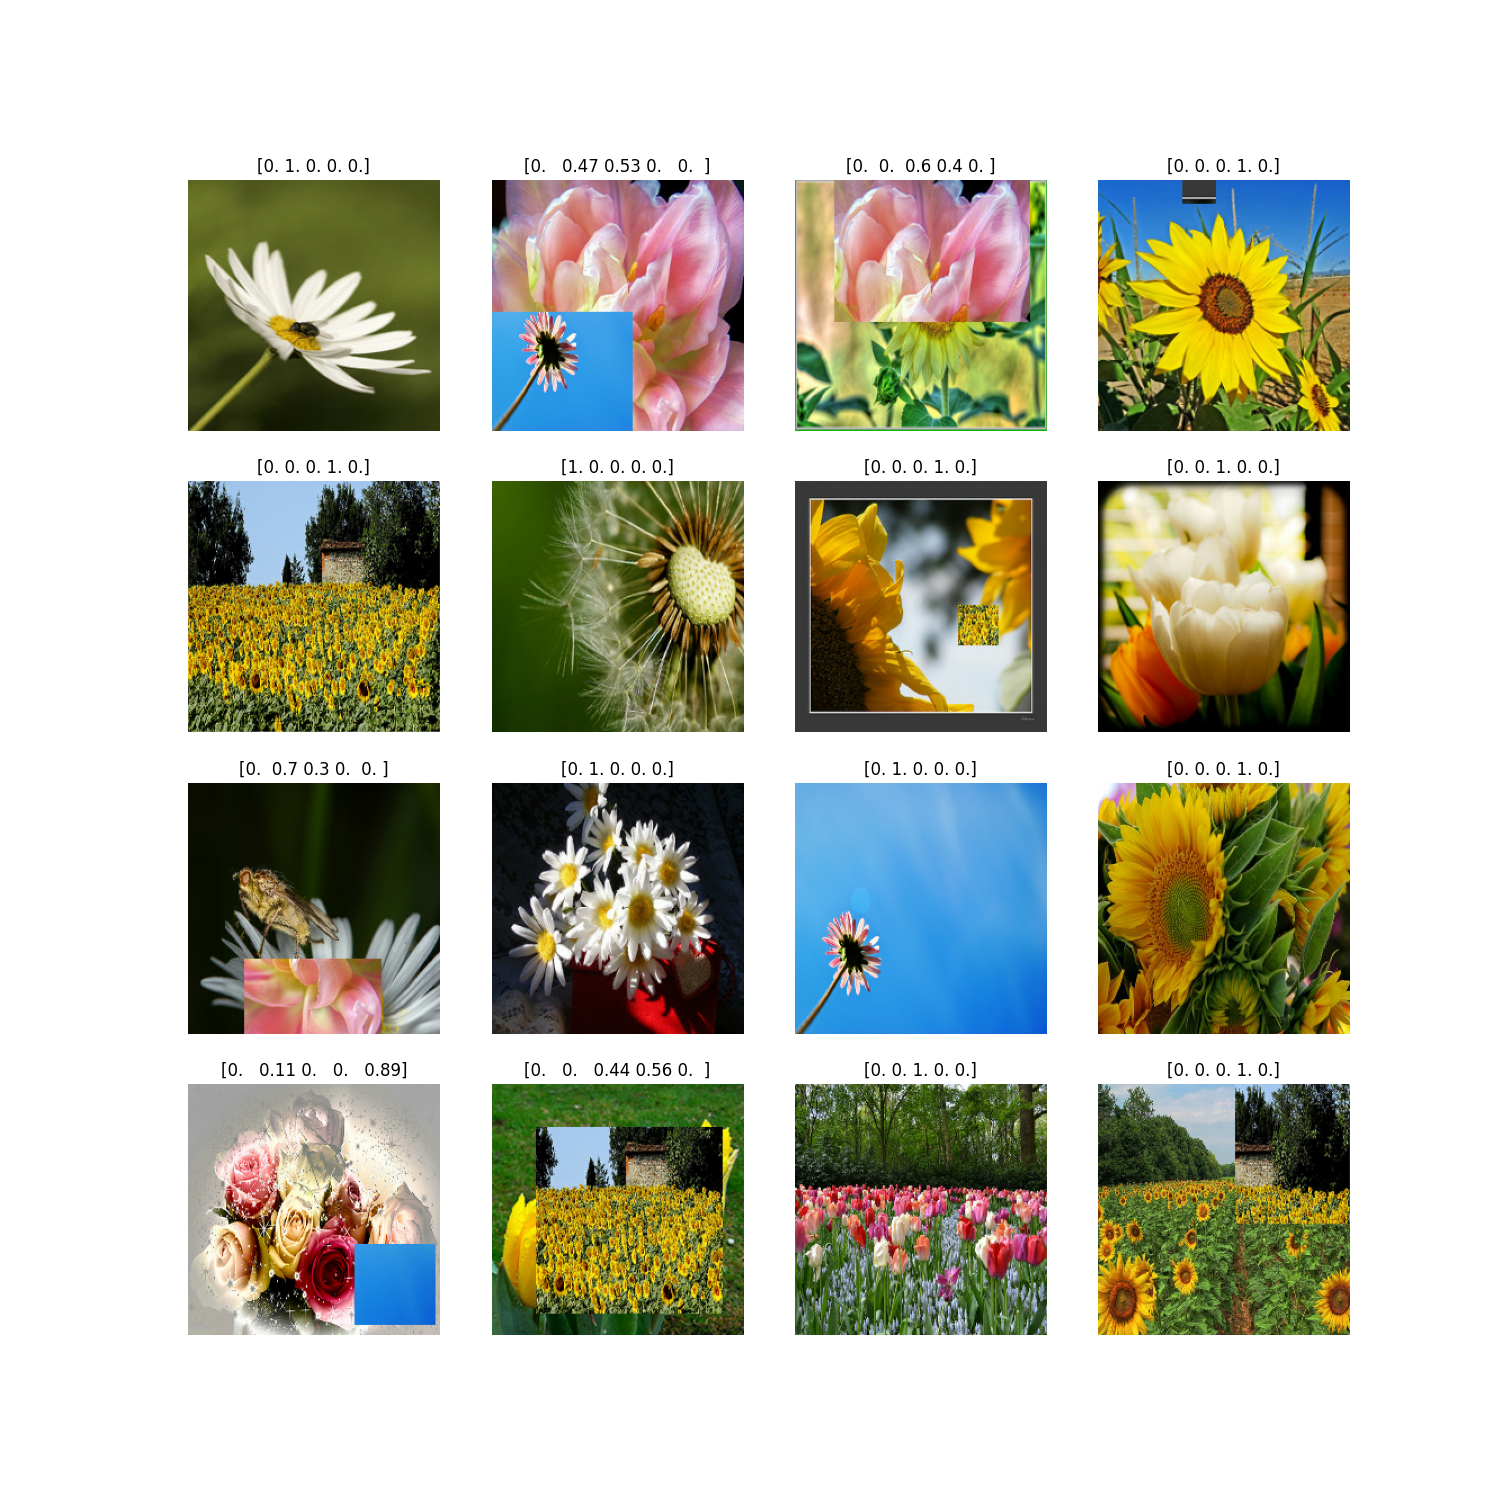
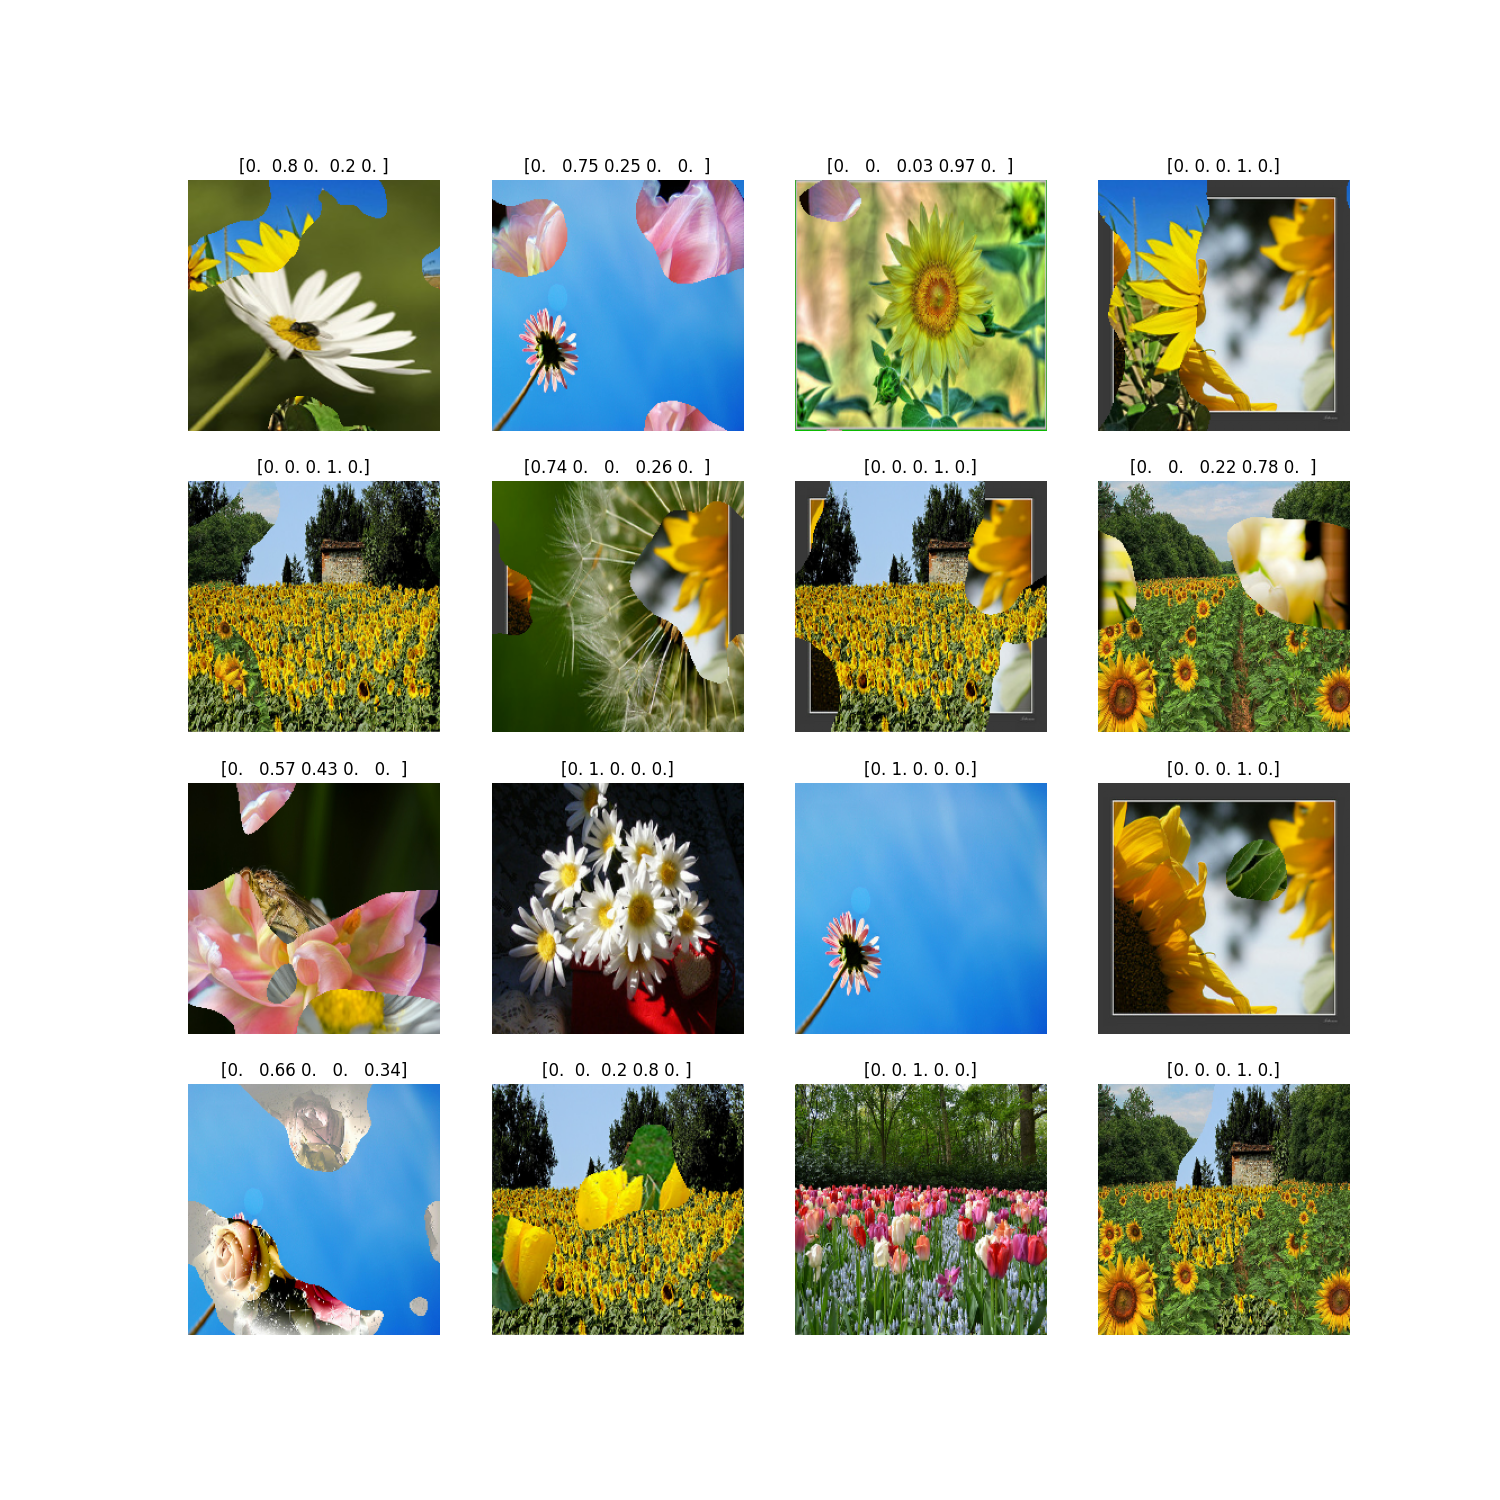
complete FMix!

diff --git a/augmentation/mix_augmentation.py b/augmentation/mix_augmentation.py
@@ -195,18 +195,19 @@ class RandomFMix(MixAugmentationBase):
         # returns the same shape as the input.  tf.signal.ifft2d does not accept
         # shape, as in np.fft.irfftn used in the original code.  I think that
         # a tensor of width by height is necessary here for tf.signal.ifft2d.
-        fx = self._fftfreq(w)  # [: w // 2 + 2] or [ : w // 2 + 1]
-        fy = self._fftfreq(h)
+        # [: w // 2 + 2] or [ : w // 2 + 1]
+        fx = self._fftfreq(tf.cast(w, tf.float32))
+        fy = self._fftfreq(tf.cast(h, tf.float32))
 
         fx_square = fx * fx
         fy_square = fy * fy
         return tf.math.sqrt(fx_square[tf.newaxis, :] + fy_square[:, tf.newaxis])
 
-    def _get_spectrum(self, data_count, freqs, decay_power):
+    def _get_spectrum(self, data_count, freqs, decay_power, IMAGE_MAX_W_H):
         # Make a tensor to scale frequencies, low frequencies are bigger
         # and high frequencies are smaller.
         # Make freqs greater than 0 to avoid division by 0.
-        lowest_freq = tf.constant(1. / IMAGE_MAX_W_H)
+        lowest_freq = 1. / IMAGE_MAX_W_H
         freqs_gt_zero = tf.math.maximum(freqs, lowest_freq)
         scale_hw = 1.0 / tf.math.pow(freqs_gt_zero, decay_power)
 
@@ -214,7 +215,7 @@ class RandomFMix(MixAugmentationBase):
         # 2 in the last dimension is for real and imaginary part of a complex number.
         # In the original program, the first dimention is used for channels.
         # In this program, it is used for data in a batch.
-        param_size = [data_count] + list(freqs.shape) + [2]
+        param_size = tf.concat([[data_count], tf.shape(freqs), [tf.constant(2, dtype=tf.int32)]], axis=0)
         param_bhw2 = tf.random.normal(param_size)
 
         # Make a spectrum by multiplying scale and param.  For scale,
@@ -223,11 +224,14 @@ class RandomFMix(MixAugmentationBase):
         spectrum_bhw2 = scale_1hw1 * param_bhw2
         return spectrum_bhw2
 
-    def _make_low_freq_images(self, data_count, decay):
+    def _make_low_freq_images(self, data_count, image_size_0, image_size_1, decay):
+        IMAGE_MAX_W_H = tf.cast(tf.maximum(
+            image_size_0, image_size_1), tf.float32)
         # Make a mask image by inverse Fourier transform of a spectrum,
         # which is generated by self._get_spectrum().
-        freqs = self._fftfreqnd(self.image_size_0, self.image_size_1)
-        spectrum_bhw2 = self._get_spectrum(data_count, freqs, decay)
+        freqs = self._fftfreqnd(image_size_0, image_size_1)
+        spectrum_bhw2 = self._get_spectrum(
+            data_count, freqs, decay, IMAGE_MAX_W_H)
         spectrum_re_bhw = spectrum_bhw2[:, :, :, 0]
         spectrum_im_bhw = spectrum_bhw2[:, :, :, 1]
         spectrum_comp_bhw = tf.complex(spectrum_re_bhw, spectrum_im_bhw)
@@ -242,7 +246,8 @@ class RandomFMix(MixAugmentationBase):
         mask_scaled_bhw = mask_shift_to_0_bhw / mask_max_b11
         return mask_scaled_bhw
 
-    def _make_binary_masks(self, data_count, low_freq_images_bhw, mix_ratios_b):
+    def _make_binary_masks(self, data_count, image_size_0, image_size_1, low_freq_images_bhw, mix_ratios_b):
+        IMAGE_PIXEL_COUNT = image_size_0 * image_size_1
         # The goal is "top proportion of the image to have value ‘1’ and the rest to have value ‘0’".
         # To make this I use tf.scatter_nd().  For tf.scatter_nd(), indices and values
         # are necessary.
@@ -258,7 +263,7 @@ class RandomFMix(MixAugmentationBase):
         # '[ 0 ... 0 1 ... 1 ..... data_count-1 ... data_count-1]'
         col_indices_b = tf.range(data_count, dtype=tf.int32)
         col_indices_t = tf.repeat(
-            col_indices_b, self.IMAGE_PIXEL_COUNT, axis=-1)
+            col_indices_b, IMAGE_PIXEL_COUNT, axis=-1)
 
         # Combine column and row indices for scatter_nd.
         scatter_indices_2t = tf.stack([col_indices_t, row_indices_t])
@@ -268,7 +273,7 @@ class RandomFMix(MixAugmentationBase):
         # [[ 0.0 ... 1.0 ]   \  <-- tf.linspace(0.0, 1.0, self.IMAGE_PIXEL_COUNT)
         #   ...               | data_count
         #  [ 0.0 ... 1.0 ]]  /
-        linspace_0_1_p = tf.linspace(0.0, 1.0, self.IMAGE_PIXEL_COUNT)
+        linspace_0_1_p = tf.linspace(0.0, 1.0, IMAGE_PIXEL_COUNT)
         linspace_0_1_1p = linspace_0_1_p[tf.newaxis, :]
         linspace_0_1_bp = tf.repeat(linspace_0_1_1p, data_count, axis=0)
 
@@ -284,57 +289,70 @@ class RandomFMix(MixAugmentationBase):
 
         # Make binary masks by using tf.scatter_nd(), then reshape.
         bin_masks_bp = tf.scatter_nd(scatter_indices_t2, scatter_updates_t, [
-            data_count, self.IMAGE_PIXEL_COUNT])
+            data_count, IMAGE_PIXEL_COUNT]
+        )
         bin_masks_bhw1 = tf.reshape(
-            bin_masks_bp, [data_count, self.image_size_0, self.image_size_1, 1])
+            bin_masks_bp, [data_count, image_size_0, image_size_1, 1]
+        )
         return bin_masks_bhw1
 
     def _calc_fmix(
         self,
+        batch_size,
+        image_size_0,
+        image_size_1,
     ):
         # Generate mix ratios by beta distribution.
         mix_ratios = self._beta_sampling(
-            [self.aug_batch_size], alpha=self.alpha)
+            [batch_size], alpha=self.alpha)
 
         # Generate binary masks, then mix images.
         low_freq_images = self._make_low_freq_images(
-            self.aug_batch_size, self.decay)
+            batch_size,
+            image_size_0,
+            image_size_1,
+            self.decay
+        )
         bin_masks = self._make_binary_masks(
-            self.aug_batch_size, low_freq_images, mix_ratios)
+            batch_size,
+            image_size_0,
+            image_size_1,
+            low_freq_images,
+            mix_ratios
+        )
 
         return bin_masks, mix_ratios
 
     def transform(
         self,
-        image_batch,
-        label_batch,
+        images,
+        labels,
     ):
-        imgs = []
-        labs = []
-        image_mix_ratios, label_mix_ratios = self._calc_fmix()
-        for j in range(self.aug_batch_size):
-            k = tf.cast(tf.random.uniform(
-                [], 0, self.aug_batch_size), tf.int32)
-            img1 = image_batch[j, ]
-            img2 = image_batch[k, ]
-            lab1 = label_batch[j, ]
-            lab2 = label_batch[k, ]
+        batch_size = tf.shape(images)[0]
+        image_size_0 = tf.shape(images)[1]
+        image_size_1 = tf.shape(images)[2]
 
-            result_image = image_mix_ratios[j, ] * \
-                img1 + (1 - image_mix_ratios[j, ]) * img2
-            imgs.append(result_image)
-            result_label = label_mix_ratios[j, ] * \
-                lab1 + (1 - label_mix_ratios[j, ]) * lab2
-            labs.append(result_label)
-
-        result_image_batch = tf.reshape(
-            tf.stack(imgs),
-            (self.aug_batch_size, self.image_size_0,
-             self.image_size_1, self.image_channels)
-        )
-        result_label_batch = tf.reshape(
-            tf.stack(labs),
-            (self.aug_batch_size, -1)
+        image_mix_ratios, label_mix_ratios = self._calc_fmix(
+            batch_size,
+            image_size_0,
+            image_size_1,
         )
 
-        return result_image_batch, result_label_batch
+        result_images = tf.TensorArray(dtype=tf.float32, size=batch_size)
+        result_labels = tf.TensorArray(dtype=tf.float32, size=batch_size)
+
+        for j in tf.range(0, batch_size, dtype=tf.int32):
+            k = tf.random.uniform([], 0, batch_size, dtype=tf.int32)
+
+            result_images = result_images.write(
+                j,
+                image_mix_ratios[j] * images[j] +
+                (1 - image_mix_ratios[j]) * images[k]
+            )
+            result_labels = result_labels.write(
+                j,
+                label_mix_ratios[j] * labels[j] +
+                (1 - label_mix_ratios[j]) * labels[k]
+            )
+
+        return result_images.stack(), result_labels.stack()

diff --git a/augmentation/test.py b/augmentation/test.py
@@ -57,7 +57,8 @@ def transform(images, labels):
             # RandomRotation(p=0.5, fill_mode="REFLECT"),
             # RandomSaturation(p=0.5),
             # RandomMixUp(p=0.5),
-            RandomCutMix(p=0.5),
+            # RandomCutMix(p=0.5),
+            RandomFMix(p=0.5),
         ]
     )
 
